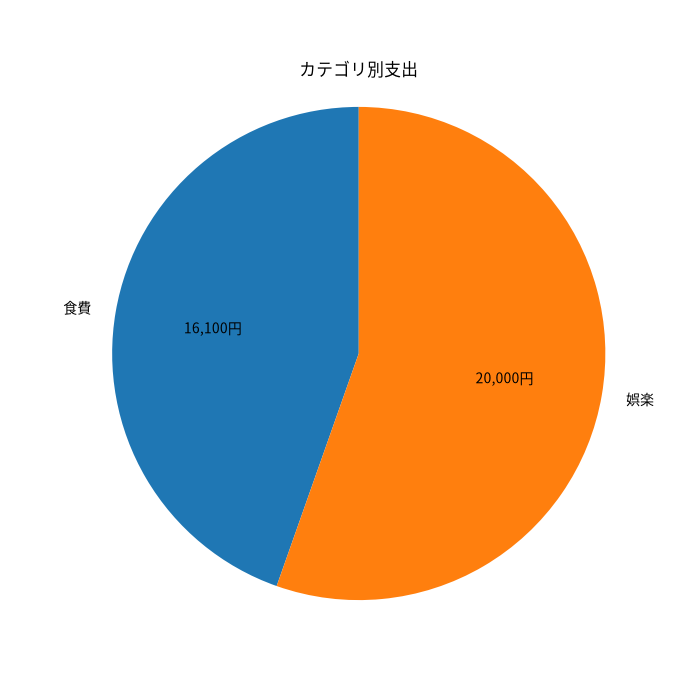
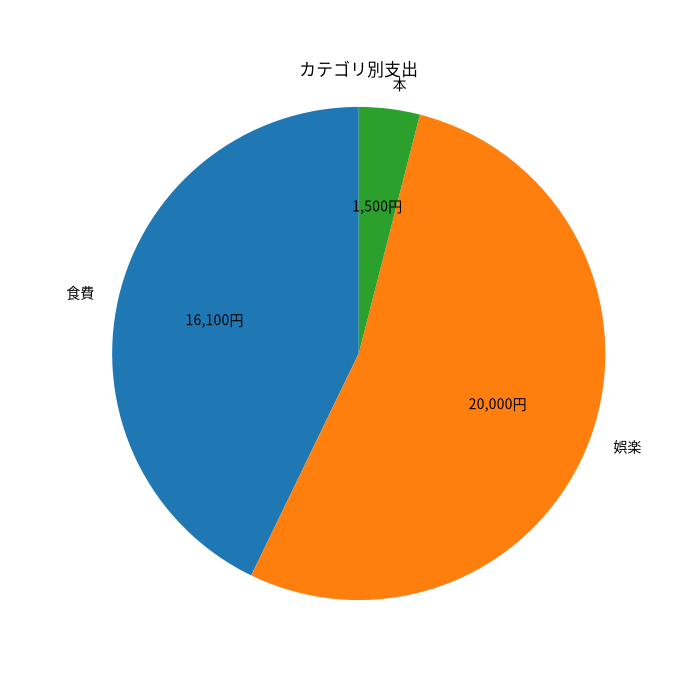
update README.md

diff --git a/README.md b/README.md
@@ -34,7 +34,7 @@ Pythonで作成したシンプルな家計簿アプリです。
 ![収入と支出のグラフ](income_expense.png)
 
 ## インストール方法
-GitHub Codespacesを使用する場合、Codespaceの作成時に必要なPythonライブラリと日本語フォントが自動でインストールされます。
+GitHub Codespacesを使用する場合、Codespaceの作成時に必要なPythonライブラリと日本語フォントが自動でインストールされます。Pythonライブラリの管理には `uv` を使用しています。
 
 ## 実行方法
 ターミナルで以下のコマンドを実行します。
@@ -45,16 +45,19 @@ python3 app.py
 
 ## 開発環境の設定
 本アプリはPython 3を使用しています。
-必要なPythonライブラリは `requirements.txt` に記載しています。
-GitHub Codespacesでは `.devcontainer/devcontainer.json` を使用し、必要なライブラリと日本語フォントを自動でセットアップします。
+Pythonライブラリは `pyproject.toml` で管理し、
+`uv.lock` によって使用するライブラリのバージョンを固定しています。
+GitHub Codespacesでは `.devcontainer/devcontainer.json` を使用し、
+必要なライブラリと日本語フォントを自動でセットアップします。
 
 ## テスト方法
-テストは以下のコマンドで実行します。
+単体テストには `pytest` を使用しています。
+以下のコマンドでテストを実行します。
 ```bash
-python3 -m unittest discover
+uv run pytest
 ```
 また、GitHub Actionsを利用して、GitHubへのpush時に自動でテストを実行します。
 
 ## CI
 GitHub Actionsを使用して、コードをpushした際に自動テストを行います。
-CIの実行結果は、このREADME上部のCIバッジまたはGitHubの「Actions」タブから確認できます。
+CIの実行結果は、GitHubの「Actions」タブから確認できます。
